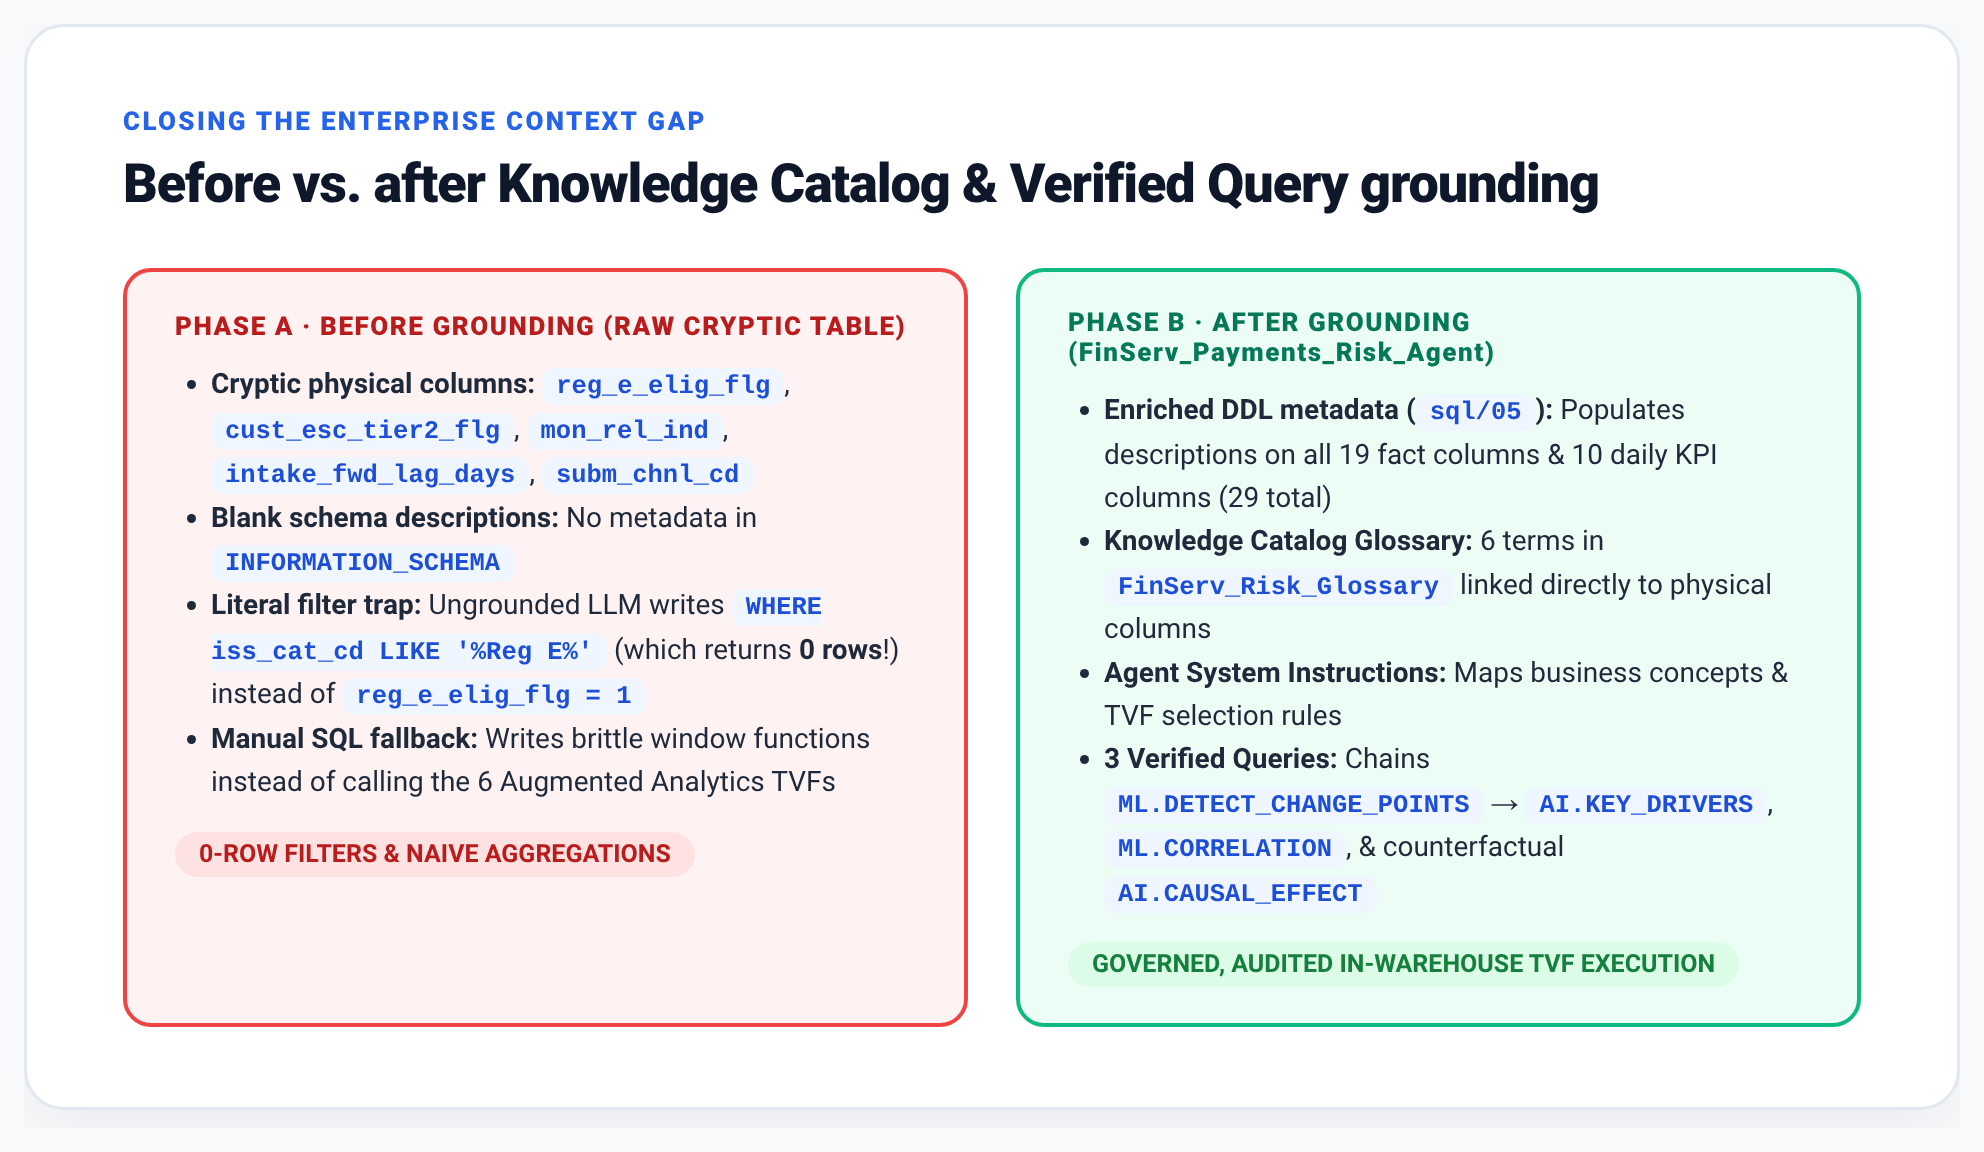
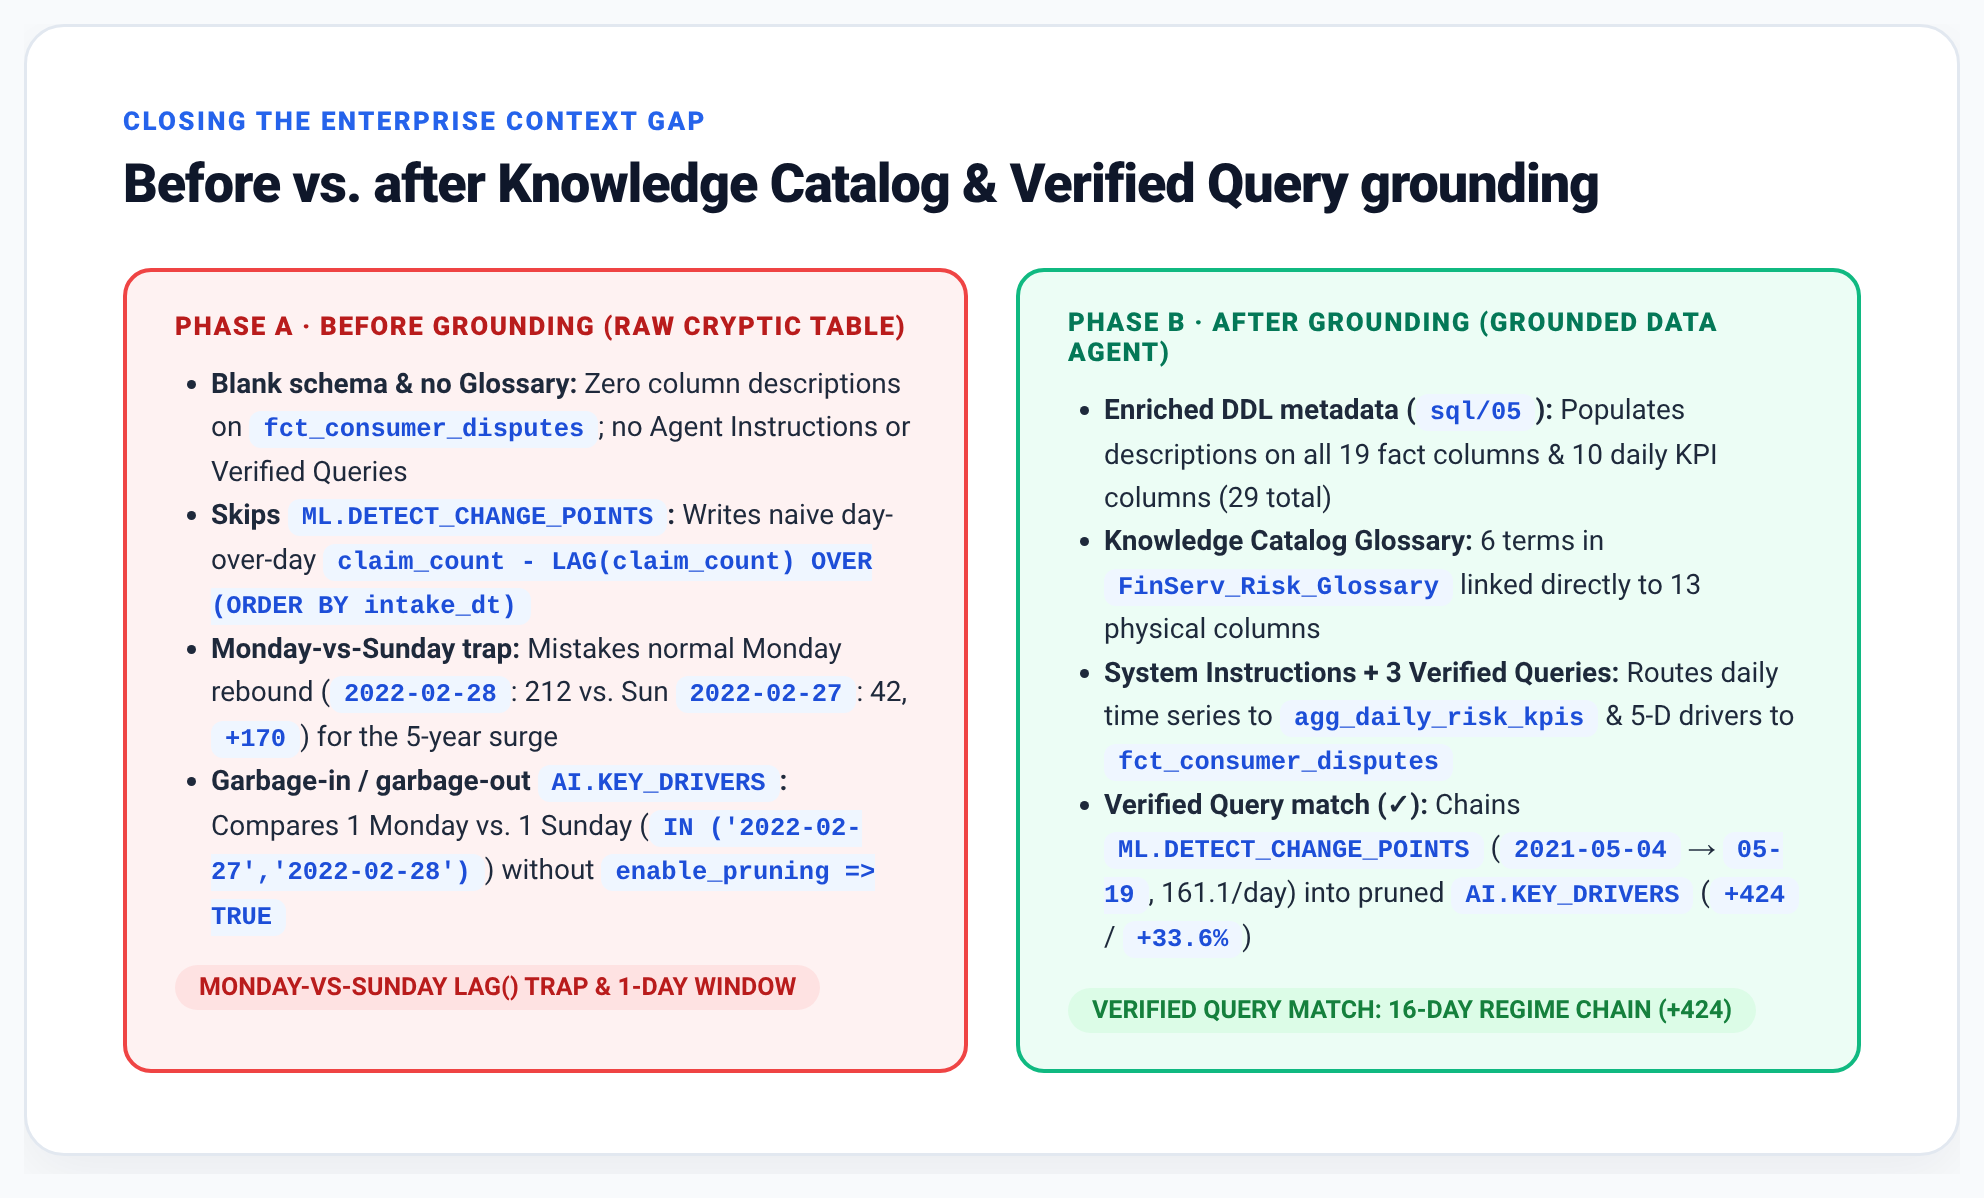
Add all 8 live BigQuery, Knowledge Catalog, and BQCA verification screenshots (01-08) and update documentation

Changed region(s): [[0.0625, 0.2188, 0.9375, 0.9062], [0.0625, 0.0938, 0.8125, 0.1875], [0.0938, 0.8125, 0.4062, 0.8438]]

diff --git a/docs/knowledge_catalog_and_bqca_assets.md b/docs/knowledge_catalog_and_bqca_assets.md
@@ -306,32 +306,32 @@ In the **`FinServ_Payments_Risk_Agent`** builder, click **+ Add verified query**
 Run this test **before** executing [`sql/05_enrich_metadata_for_knowledge_catalog.sql`](https://github.com/Rajdipc/bq-agentic-analytics-finserv-tvfs/blob/main/sql/05_enrich_metadata_for_knowledge_catalog.sql) or attaching the Knowledge Catalog Glossary:
 
 1. In **BigQuery → Studio**, click **Agents** (or **Conversational Analytics**) in the left navigation.
-2. Click **+ New conversation** (direct table chat, without selecting `FinServ_Payments_Risk_Agent`).
-3. Under **Select data sources**, attach **only** `<your-project>.finserv_risk_ops.fct_consumer_disputes` (with its blank column descriptions).
-4. Submit the following prompt:
+2. Create an ungrounded test agent (e.g., `Demo-FinservRiskOps-Before-Grounding`) with **empty** Agent Instructions and **zero** Verified Queries, attaching **only** `<your-project>.finserv_risk_ops.fct_consumer_disputes` (with its blank column descriptions).
+3. Submit the following prompt:
 
 > **Prompt:**
-> *"What is the long-term trend and yearly seasonality of our daily Reg E qualifying disputes, and which intake channels and sub-products drove the biggest structural shift in Tier-2 escalations?"*
+> *"When did daily unauthorized electronic fund transfer claims under 12 CFR 1005 experience their biggest surge, and which product, sub-product, issue, submission channel, and state drove that surge compared to the baseline right before it?"*
 
-5. Click **View generated SQL** under the agent's reply.
-* **Expected "Before Grounding" Failure / Context Gap:**
-  * Without Knowledge Catalog glossary terms or column descriptions, the ungrounded session must guess what *"Reg E qualifying dispute"* (`reg_e_elig_flg`), *"Tier-2 escalation"* (`cust_esc_tier2_flg`), and *"intake channel"* (`subm_chnl_cd`) mean—either asking for clarification, filtering on string literals like `iss_cat_cd LIKE '%Reg E%'` (which returns `0` rows!), or writing brittle manual window functions instead of invoking `ML.TREND`, `ML.SEASONALITY`, `ML.DETECT_CHANGE_POINTS`, and `AI.KEY_DRIVERS`.
+4. Expand the generated **SQL** blocks under the agent's reply (see [`images/05_bqca_before_grounding.png`](https://github.com/Rajdipc/bq-agentic-analytics-finserv-tvfs/blob/main/images/05_bqca_before_grounding.png)):
+* **Observed "Before Grounding" Failure / Context Gap:**
+  * Even though BQCA's built-in `bigquery-ai-ml-ca-rules` system skill knows the SQL syntax for `AI.KEY_DRIVERS`, without **Verified Query 1** or `agg_daily_risk_kpis`, the ungrounded agent **skips `ML.DETECT_CHANGE_POINTS` entirely**.
+  * Instead, it writes a naive day-over-day `claim_count - LAG(claim_count) OVER (ORDER BY intake_dt) AS dod_diff` query—which mistakes a normal **Monday-vs.-Sunday rebound (`2022-02-28` at 212 claims vs. Sunday `2022-02-27` at 42 claims, `+170`)** for the biggest surge in five years, and then feeds `WHERE intake_dt IN ('2022-02-27', '2022-02-28')` into `AI.KEY_DRIVERS` without `enable_pruning => TRUE`.
 
 ---
 
 ### Phase B: The "After Grounding" 3-Turn Executive Investigation (In `FinServ_Payments_Risk_Agent`)
-Once [`sql/05_enrich_metadata_for_knowledge_catalog.sql`](https://github.com/Rajdipc/bq-agentic-analytics-finserv-tvfs/blob/main/sql/05_enrich_metadata_for_knowledge_catalog.sql) is applied and `FinServ_Payments_Risk_Agent` is saved with the Knowledge Catalog Business Glossary, Instructions, and Verified Queries:
+Once [`sql/05_enrich_metadata_for_knowledge_catalog.sql`](https://github.com/Rajdipc/bq-agentic-analytics-finserv-tvfs/blob/main/sql/05_enrich_metadata_for_knowledge_catalog.sql) is applied and `FinServ_Payments_Risk_Agent` (or `Demo-FinservRiskOps-After-Grounding`) is saved with the Knowledge Catalog Business Glossary, Instructions, and Verified Queries:
 
-1. In **BigQuery → Studio → Agents**, select **`FinServ_Payments_Risk_Agent`** and click **Start conversation** (or **+ New chat** so cached pre-enrichment metadata is cleared).
+1. In **BigQuery → Studio → Agents**, select your grounded agent and click **Start conversation** (or **+ New chat** so cached pre-enrichment metadata is cleared).
 2. Run the 3-turn executive investigation below, clicking **View generated SQL** after each response:
 
 * **Turn 1 (Act 1 — Trend, Seasonality & Correlation):**
   > *"Analyze the long-term trend and yearly and weekly seasonality of our daily Reg E disputes. Then tell me which operational metrics have the strongest correlation with total dispute operational cost across banking product lines."*
   * **Expected SQL & Output:** Calls `ML.TREND`, `ML.SEASONALITY`, and `ML.CORRELATION` (`dimension_cols => ['prod_line_cd']`) on `finserv_risk_ops.agg_daily_risk_kpis`, reporting `reg_e_dispute_vol` correlations of `r = 0.9405` in money transfer and `r = 0.9141` in checking/savings.
 
-* **Turn 2 (Act 2 — Structural Change Points & Key Drivers Attribution):**
-  > *"Detect when the biggest structural shift occurred in daily Reg E disputes, and identify the top 10 key drivers across product line, sub-product, issue category, submission channel, and state."*
-  * **Expected SQL & Output:** Executes the chained `ML.DETECT_CHANGE_POINTS` → `AI.KEY_DRIVERS` template (VQ-1), identifying the **`2021-05-04` → `2021-05-19`** surge (**`161.1` disputes/day**) and attributing the **`+423` (`+19.6%`)** jump to `Checking or savings account` (**`+424`, `+33.6%`**, `+425.4` unexpected excess) and `Checking account × Managing an account` (**`+61.0%`**).
+* **Turn 2 (Act 2 — Structural Change Points & Key Drivers Attribution; Direct Counterpart to Phase A):**
+  > *"When did daily unauthorized electronic fund transfer claims under 12 CFR 1005 experience their biggest surge, and which product, sub-product, issue, submission channel, and state drove that surge compared to the baseline right before it?"*
+  * **Expected SQL & Output (see [`images/07_bqca_after_grounding_tvf.png`](https://github.com/Rajdipc/bq-agentic-analytics-finserv-tvfs/blob/main/images/07_bqca_after_grounding_tvf.png)):** Displays the green **Verified Query badge (`✓`)** and executes the chained `ML.DETECT_CHANGE_POINTS` → `AI.KEY_DRIVERS` template (VQ-1), identifying the **`2021-05-04` → `2021-05-19`** surge (**`161.1` disputes/day**) and attributing the **`+423` (`+19.6%`)** jump to `Checking or savings account` (**`+424`, `+33.6%`**, `+425.4` unexpected excess) and `Checking account × Managing an account` (**`+61.0%`**), complete with an auto-rendered driver bar chart.
 
 * **Turn 3 (Act 3 — Counterfactual Causal Effect):**
   > *"Quantify the causal effect on daily Reg E dispute volume after 2020-07-01 between 2020-01-01 and 2020-10-01, and also break down the causal impact on daily operational cost by banking product line."*

diff --git a/README.md b/README.md
@@ -204,7 +204,7 @@ bq-agentic-analytics-finserv-tvfs/
 │   └── 99_teardown.sql                                    # Cleanup: DROP SCHEMA finserv_risk_ops CASCADE
 ├── docs/
 │   └── knowledge_catalog_and_bqca_assets.md               # Click-by-click Console guide + copy-paste Glossary, Instructions & Verified Queries
-└── images/                                                # High-DPI architecture & TVF reference diagrams
+└── images/                                                # High-DPI architecture diagrams + 8 live Console verification screenshots
 ```
 
 | File Path | Purpose |
@@ -218,7 +218,7 @@ bq-agentic-analytics-finserv-tvfs/
 | [`sql/06_audit_bqca_agent_jobs.sql`](https://github.com/Rajdipc/bq-agentic-analytics-finserv-tvfs/blob/main/sql/06_audit_bqca_agent_jobs.sql) | Audit: Verifies agent TVF execution via `` `region-us`.INFORMATION_SCHEMA.JOBS `` |
 | [`sql/99_teardown.sql`](https://github.com/Rajdipc/bq-agentic-analytics-finserv-tvfs/blob/main/sql/99_teardown.sql) | Cleanup: drops the `finserv_risk_ops` dataset and lists Console-only resources to delete |
 | [`docs/knowledge_catalog_and_bqca_assets.md`](https://github.com/Rajdipc/bq-agentic-analytics-finserv-tvfs/blob/main/docs/knowledge_catalog_and_bqca_assets.md) | Click-by-click Console setup guide + copy-paste Knowledge Catalog Glossary terms, Agent Instructions, and Verified Queries |
-| [`images/`](https://github.com/Rajdipc/bq-agentic-analytics-finserv-tvfs/tree/main/images) | High-DPI architecture and 6-TVF reference diagrams (`diagram_1`–`diagram_4`, `table_1`–`table_2`) |
+| [`images/`](https://github.com/Rajdipc/bq-agentic-analytics-finserv-tvfs/tree/main/images) | High-DPI architecture and 6-TVF reference diagrams (`diagram_1`–`diagram_4`, `table_1`–`table_2`) plus all 8 live Console verification screenshots (`01_`–`08_`) |
 
 ---
 
@@ -316,11 +316,11 @@ Every step below uses the **Google Cloud Console** and works in any GCP project 
 Run this baseline check **before** executing [`sql/05_enrich_metadata_for_knowledge_catalog.sql`](https://github.com/Rajdipc/bq-agentic-analytics-finserv-tvfs/blob/main/sql/05_enrich_metadata_for_knowledge_catalog.sql) so you can see how an ungrounded agent behaves on raw column codes:
 
 1. In **BigQuery → Studio**, click **Agents** (or **Conversational Analytics**) in the left navigation bar.
-2. Click **+ New conversation** (direct table chat without creating a custom agent).
+2. Create an ungrounded test agent (e.g., `Demo-FinservRiskOps-Before-Grounding`) with **empty** Agent Instructions and **zero** Verified Queries.
 3. Under **Select data sources**, select **only** `<your-project>.finserv_risk_ops.fct_consumer_disputes` (which currently has empty column descriptions) and click **Add / Select**.
 4. Submit the Phase A test prompt from [**`docs/knowledge_catalog_and_bqca_assets.md` (Section 4, Phase A)**](https://github.com/Rajdipc/bq-agentic-analytics-finserv-tvfs/blob/main/docs/knowledge_catalog_and_bqca_assets.md#phase-a-the-before-grounding-test-direct-chat-on-raw-cryptic-table):
-   > *"What is the long-term trend and yearly seasonality of our daily Reg E qualifying disputes, and which intake channels and sub-products drove the biggest structural shift in Tier-2 escalations?"*
-5. Click **View generated SQL** under the agent's reply and **observe the failure**: because column descriptions are blank, the ungrounded session guesses what *"Reg E qualifying dispute"* (`reg_e_elig_flg`) and *"Tier-2 escalation"* (`cust_esc_tier2_flg`) mean—either asking for clarification, filtering on `iss_cat_cd LIKE '%Reg E%'` (which returns `0` rows!), or writing manual window functions instead of invoking the 6 TVFs.
+   > *"When did daily unauthorized electronic fund transfer claims under 12 CFR 1005 experience their biggest surge, and which product, sub-product, issue, submission channel, and state drove that surge compared to the baseline right before it?"*
+5. Expand the generated **SQL** blocks under the agent's reply (see [`images/05_bqca_before_grounding.png`](https://github.com/Rajdipc/bq-agentic-analytics-finserv-tvfs/blob/main/images/05_bqca_before_grounding.png)): without **Verified Query 1** or `agg_daily_risk_kpis`, the ungrounded agent **skips `ML.DETECT_CHANGE_POINTS` entirely**, writes `claim_count - LAG(claim_count) OVER (ORDER BY intake_dt) AS dod_diff` (mistaking a normal Monday-vs.-Sunday rebound on `2022-02-28` vs. `2022-02-27` for the 5-year surge), and feeds those 2 days into `AI.KEY_DRIVERS` without `enable_pruning => TRUE`.
 
 ---
 
